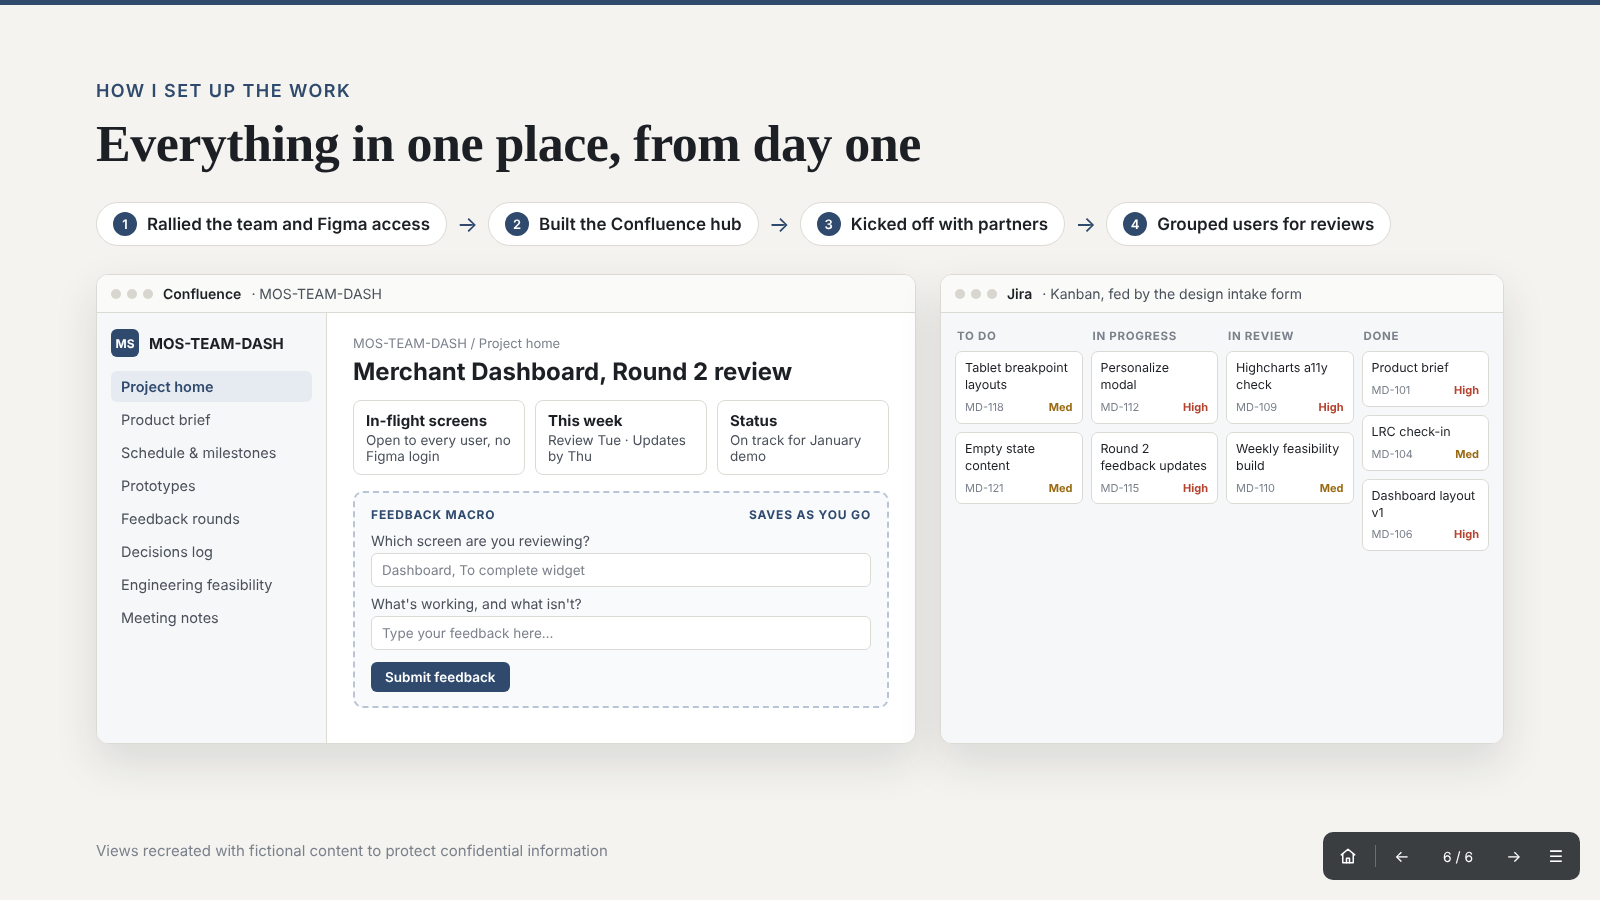
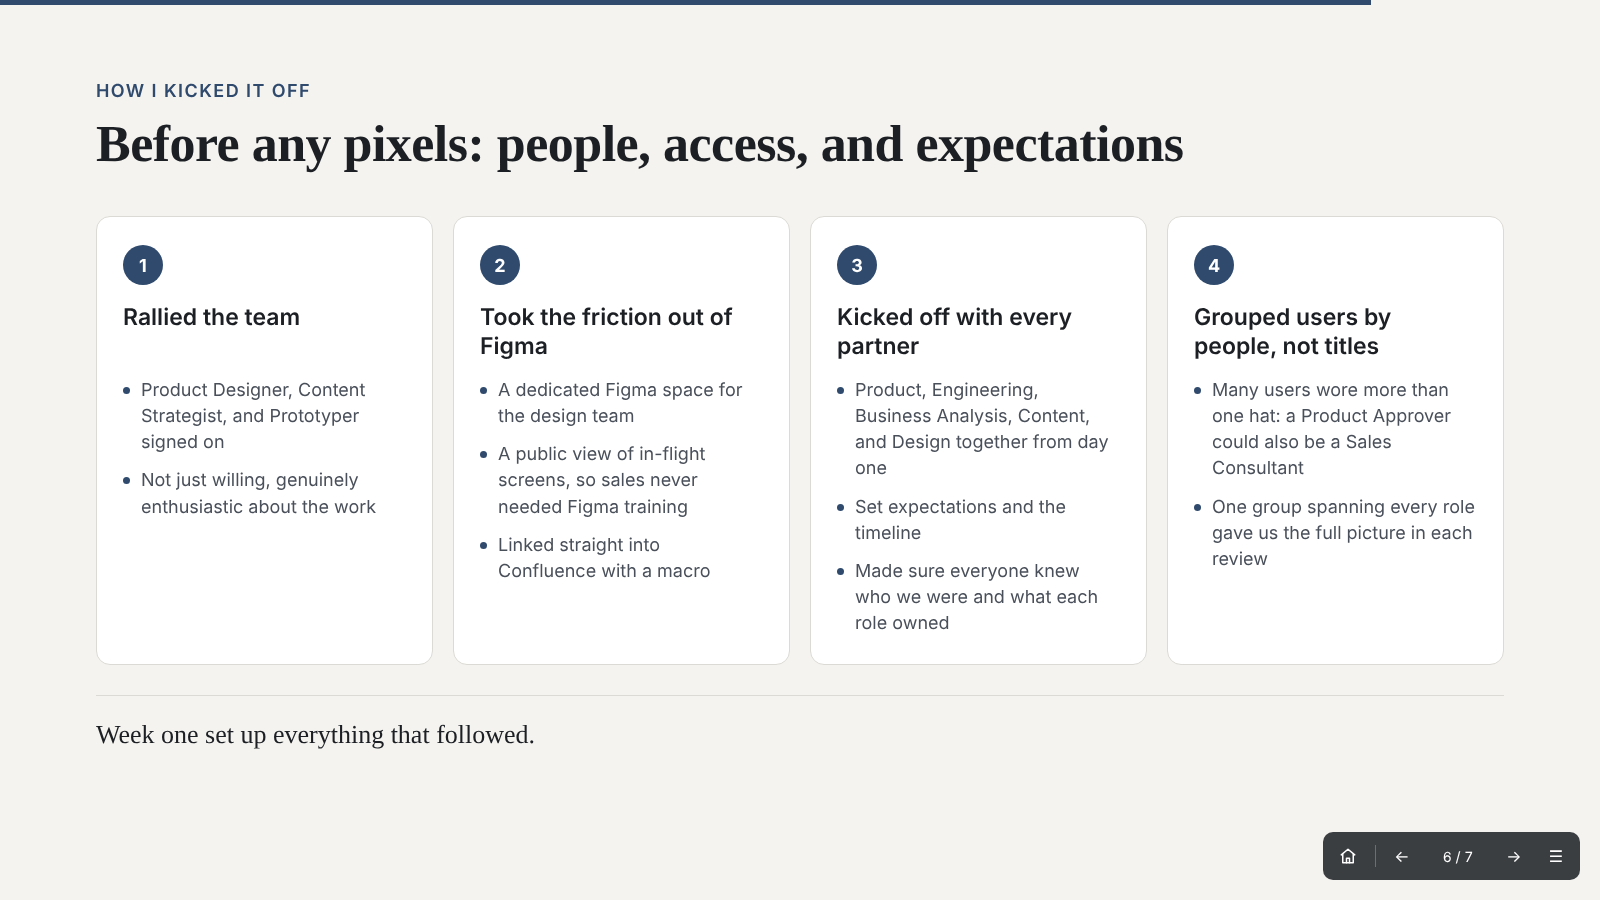
Add files via upload

diff --git a/index.html b/index.html
@@ -224,8 +224,8 @@
   .pipeline .step em { font-style: normal; display: inline-grid; place-items: center; width: 24px; height: 24px; border-radius: 50%; background: var(--accent); color: #fff; font-size: 13px; margin-right: 10px; vertical-align: 1px; }
   .pipeline .arrow { color: var(--accent); font-size: 22px; }
   .setup-grid { display: grid; grid-template-columns: 820px 1fr; gap: 24px; }
-  .win { background: var(--surface); border: 1px solid var(--line); border-radius: 12px; overflow: hidden; box-shadow: 0 18px 44px rgba(28,31,36,.12); height: 470px; display: flex; flex-direction: column; }
-  .win-bar { display: flex; align-items: center; gap: 10px; padding: 10px 14px; border-bottom: 1px solid var(--line); background: #fafaf8; font-size: 14px; color: var(--ink-soft); }
+  .win { background: var(--surface); border: 1px solid var(--line); border-radius: 12px; overflow: visible; box-shadow: 0 18px 44px rgba(28,31,36,.12); height: 462px; display: flex; flex-direction: column; }
+  .win-bar { border-radius: 12px 12px 0 0; display: flex; align-items: center; gap: 10px; padding: 10px 14px; border-bottom: 1px solid var(--line); background: #fafaf8; font-size: 14px; color: var(--ink-soft); }
   .win-bar .dots { display: flex; gap: 6px; }
   .win-bar .dots i { width: 10px; height: 10px; border-radius: 50%; background: #d9d6cf; display: block; }
   .win-bar b { color: var(--ink); font-weight: 600; }
@@ -253,6 +253,25 @@
   .kcard .k { display: flex; justify-content: space-between; margin-top: 6px; font-size: 11px; color: var(--ink-faint); }
   .kcard .pri { font-weight: 700; }
   .kcard .pri.h { color: #b4432f; } .kcard .pri.m { color: #9a6a12; }
+
+
+  /* ---------- Slide 6: Kickoff ---------- */
+  .kick-grid { display: grid; grid-template-columns: repeat(4, 1fr); gap: 20px; }
+  .kick { padding: 28px 26px; display: flex; flex-direction: column; }
+  .kick .n { width: 40px; height: 40px; border-radius: 50%; background: var(--accent); color: #fff; display: grid; place-items: center; font-weight: 700; font-size: 18px; margin-bottom: 18px; }
+  .kick h4 { font-size: 23px; line-height: 1.25; font-weight: 600; color: var(--ink); margin-bottom: 16px; min-height: 58px; }
+  .kick ul { list-style: none; display: grid; gap: 12px; }
+  .kick li { font-size: 18px; line-height: 1.45; color: var(--ink-soft); padding-left: 18px; position: relative; }
+  .kick li::before { content: ""; position: absolute; left: 0; top: 10px; width: 7px; height: 7px; border-radius: 50%; background: var(--accent); }
+  .kick-note { margin-top: 30px; padding-top: 24px; border-top: 1px solid var(--line); font-family: "Source Serif 4", Georgia, serif; font-size: 26px; color: var(--ink); }
+
+  /* ---------- Slide 7: System callouts ---------- */
+  .win { position: relative; }
+  .win .pin { z-index: 3; }
+  .legend { display: grid; grid-template-columns: repeat(4, 1fr); gap: 22px; margin-top: 24px; }
+  .legend div { display: grid; grid-template-columns: 34px 1fr; gap: 12px; align-items: start; font-size: 17.5px; line-height: 1.4; color: var(--ink-soft); }
+  .legend b { display: block; color: var(--ink); font-size: 18.5px; margin-bottom: 2px; }
+  .legend .num { width: 32px; height: 32px; border-radius: 50%; background: var(--accent); color: #fff; display: grid; place-items: center; font-weight: 700; font-size: 15px; }
 
   /* ---------- Navigation chrome ---------- */
   .progress { position: absolute; left: 0; top: 0; height: 5px; background: var(--accent); transition: width .35s ease; }
@@ -488,20 +507,62 @@
       <div class="signoff"><span class="tag">Final approval</span>Head of Merchant Services and Business Transformation leadership</div>
     </section>
 
-    <!-- ================= SLIDE 6: HOW I SET UP THE WORK ================= -->
-    <section class="slide" data-title="How I set up the work">
+    <!-- ================= SLIDE 6: HOW I KICKED IT OFF ================= -->
+    <section class="slide" data-title="How I kicked it off">
       <div class="slide-head">
-        <div class="eyebrow">How I set up the work</div>
-        <h2>Everything in one place, from day one</h2>
+        <div class="eyebrow">How I kicked it off</div>
+        <h2>Before any pixels: people, access, and expectations</h2>
       </div>
-      <div class="pipeline">
-        <span class="step"><em>1</em>Rallied the team and Figma access</span><span class="arrow">&#8594;</span>
-        <span class="step"><em>2</em>Built the Confluence hub</span><span class="arrow">&#8594;</span>
-        <span class="step"><em>3</em>Kicked off with partners</span><span class="arrow">&#8594;</span>
-        <span class="step"><em>4</em>Grouped users for reviews</span>
+      <div class="kick-grid">
+        <div class="card kick">
+          <div class="n">1</div>
+          <h4>Rallied the team</h4>
+          <ul>
+            <li>Product Designer, Content Strategist, and Prototyper signed on</li>
+            <li>Not just willing, genuinely enthusiastic about the work</li>
+          </ul>
+        </div>
+        <div class="card kick">
+          <div class="n">2</div>
+          <h4>Took the friction out of Figma</h4>
+          <ul>
+            <li>A dedicated Figma space for the design team</li>
+            <li>A public view of in-flight screens, so sales never needed Figma training</li>
+            <li>Linked straight into Confluence with a macro</li>
+          </ul>
+        </div>
+        <div class="card kick">
+          <div class="n">3</div>
+          <h4>Kicked off with every partner</h4>
+          <ul>
+            <li>Product, Engineering, Business Analysis, Content, and Design together from day one</li>
+            <li>Set expectations and the timeline</li>
+            <li>Made sure everyone knew who we were and what each role owned</li>
+          </ul>
+        </div>
+        <div class="card kick">
+          <div class="n">4</div>
+          <h4>Grouped users by people, not titles</h4>
+          <ul>
+            <li>Many users wore more than one hat: a Product Approver could also be a Sales Consultant</li>
+            <li>One group spanning every role gave us the full picture in each review</li>
+          </ul>
+        </div>
+      </div>
+      <p class="kick-note">Week one set up everything that followed.</p>
+    </section>
+
+    <!-- ================= SLIDE 7: THE SYSTEM ================= -->
+    <section class="slide" data-title="The system I built">
+      <div class="slide-head">
+        <div class="eyebrow">The system I built</div>
+        <h2>One home for the work, open to everyone</h2>
       </div>
       <div class="setup-grid">
         <div class="win" aria-label="Recreated Confluence space for the project">
+          <span class="pin" style="left:228px; top:250px">1</span>
+          <span class="pin" style="left:420px; top:132px">2</span>
+          <span class="pin" style="left:806px; top:330px">3</span>
           <div class="win-bar"><span class="dots"><i></i><i></i><i></i></span><b>Confluence</b> · MOS-TEAM-DASH</div>
           <div class="conf">
             <div class="conf-side">
@@ -521,7 +582,7 @@
               <div class="crumbs">MOS-TEAM-DASH / Project home</div>
               <h5>Merchant Dashboard, Round 2 review</h5>
               <div class="conf-row">
-                <div class="conf-tile"><b>In-flight screens</b>Open to every user, no Figma login</div>
+                <div class="conf-tile"><b>In-flight screens</b>Public Figma view, linked by macro</div>
                 <div class="conf-tile"><b>This week</b>Review Tue · Updates by Thu</div>
                 <div class="conf-tile"><b>Status</b>On track for January demo</div>
               </div>
@@ -535,6 +596,7 @@
           </div>
         </div>
         <div class="win" aria-label="Recreated Jira Kanban board for the project">
+          <span class="pin" style="left:545px; top:20px">4</span>
           <div class="win-bar"><span class="dots"><i></i><i></i><i></i></span><b>Jira</b> · Kanban, fed by the design intake form</div>
           <div class="kanban">
             <div class="kcol"><h6>To do</h6>
@@ -556,6 +618,12 @@
             </div>
           </div>
         </div>
+      </div>
+      <div class="legend">
+        <div><span class="num">1</span><span><b>Every artifact in one space</b>Brief, schedule, prototypes, decisions, and notes</span></div>
+        <div><span class="num">2</span><span><b>In-flight screens for all</b>A public Figma view, no logins or training</span></div>
+        <div><span class="num">3</span><span><b>Feedback without meetings</b>A custom macro that saved input as users went</span></div>
+        <div><span class="num">4</span><span><b>Work everyone could track</b>The intake form fed the Kanban board</span></div>
       </div>
       <p class="footnote">Views recreated with fictional content to protect confidential information</p>
     </section>
